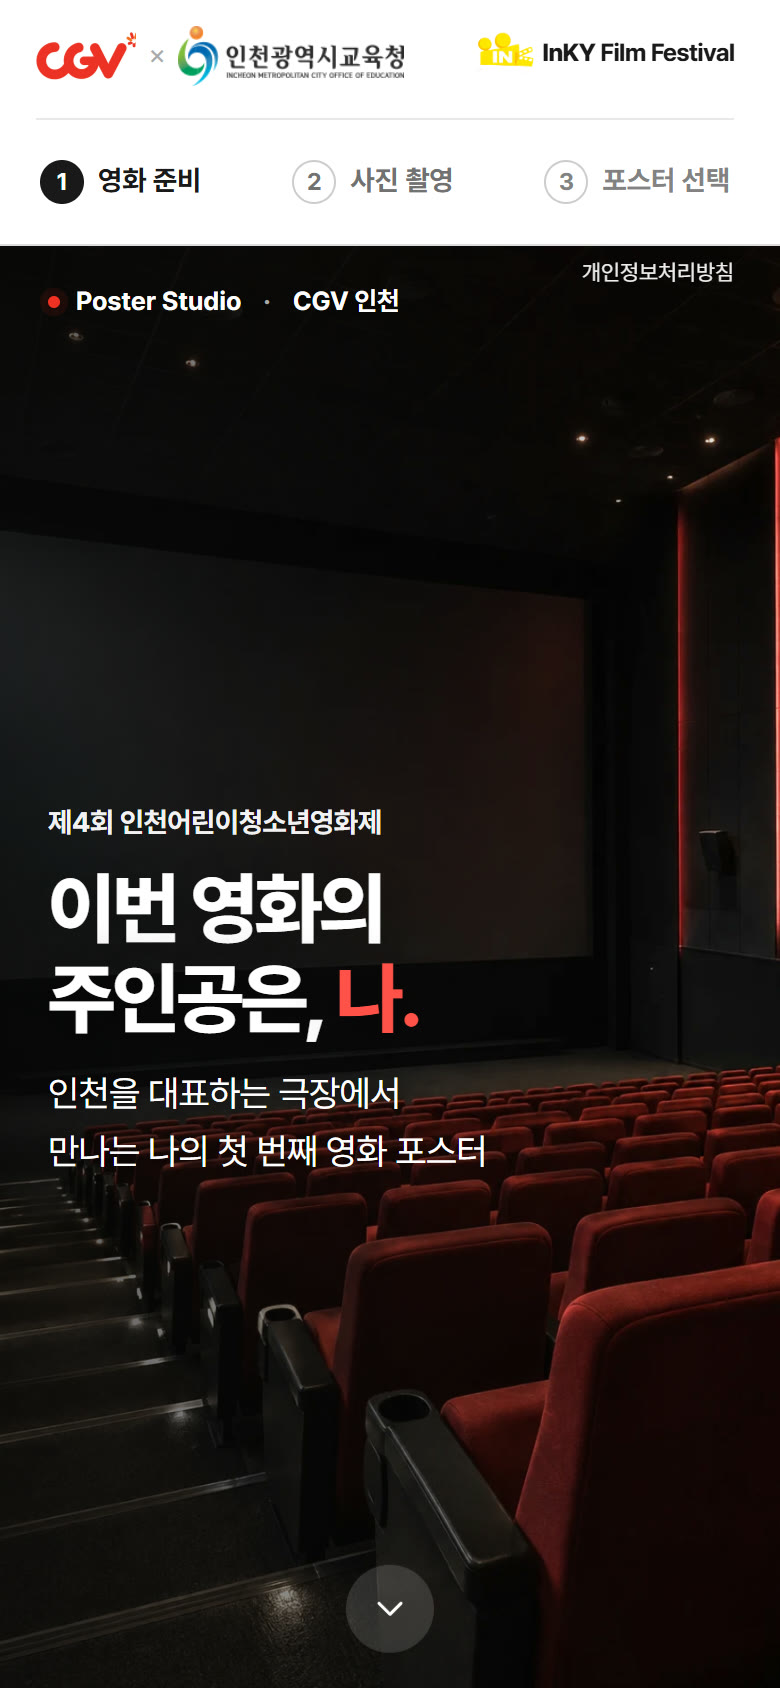
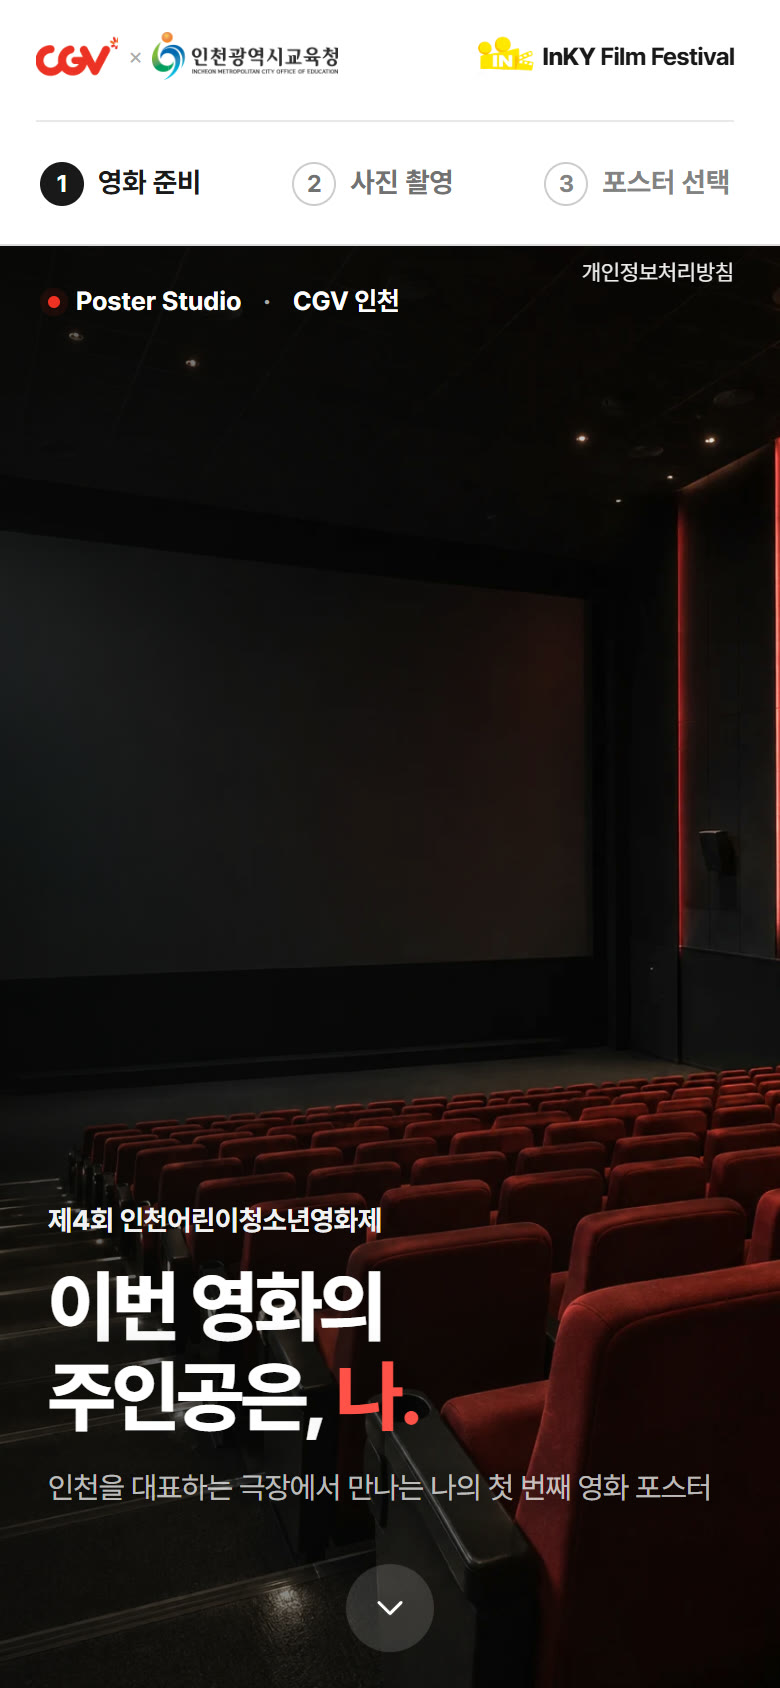
docs(manual): 설명서 그림 13장을 10/19 화면으로 다시 찍음 — 휴대폰 새 흐름 · 포스터 8종 새 디자인, 휴대폰 문장에 «양쪽 화살표» (지시 Bumm 10/18 P-b)
- PC 1 · 2단계 그림에 찍혀 있던 «AI 서버 연결을 확인할 수 없습니다» 알림이 빠졌다 — 예전에는 라이브 함수가 허용하지 않는 포트(5602)의
  개발 서버로 찍어 /health가 막혔다. 이번에는 허용된 8080 · 5500으로 찍었다.
- PDF: 운영자용 6쪽 · 선생님용 2쪽(.cache/manual-20261019/).

diff --git a/_docs/manual/operator.md b/_docs/manual/operator.md
@@ -1,6 +1,6 @@
 # Poster Studio 부스 운영 설명서 — 운영자용
 
-> 2026-10-17 출시 후보 화면 기준. [확정 대기] 표시는 화면·장비가 정해지면 채운다. 인쇄용 A4 PDF는 이 글에서 만든다.
+> 2026-10-19 화면 기준(휴대폰 새 흐름 · 포스터 8종 새 디자인). [확정 대기] 표시는 화면·장비가 정해지면 채운다. 인쇄용 A4 PDF는 이 글에서 만든다.
 
 제4회 인천어린이청소년영화제(2026.11.14. 토, 10:30~15:00, CGV 인천) «InKY 놀이터»의 Poster Studio 부스입니다.
 아이가 영화 제목을 정하고 사진을 찍으면, AI가 그 사진으로 영화 장면 그림을 그리고, 화면에서 포스터 8가지 중 하나를 골라 4×6 사진 용지로 인쇄해 가져갑니다.
@@ -98,7 +98,7 @@
 
 ## 6. 휴대폰으로 볼 때(물어보면)
 
-공개 주소(poster.edutogether.kr)를 휴대폰으로 열면 휴대폰에 맞춘 화면이 나옵니다. 첫 화면 사진을 누르면 영화 준비로 넘어가고, 촬영은 가운데 빨간 카메라 단추, 포스터는 옆으로 밀어 고른 뒤 인쇄 대신 «내 휴대폰에 저장»을 누릅니다. 행사 날 실제 촬영과 인쇄는 부스 노트북에서만 합니다.
+공개 주소(poster.edutogether.kr)를 휴대폰으로 열면 휴대폰에 맞춘 화면이 나옵니다. 첫 화면 사진을 누르면 영화 준비로 넘어가고, 촬영은 가운데 빨간 카메라 단추, 포스터는 옆으로 밀거나 양쪽 화살표로 넘겨 고른 뒤 인쇄 대신 «내 휴대폰에 저장»을 누릅니다. 행사 날 실제 촬영과 인쇄는 부스 노트북에서만 합니다.
 
 ## 7. 끝나고
 

diff --git a/_docs/manual/teacher.md b/_docs/manual/teacher.md
@@ -1,6 +1,6 @@
 # Poster Studio 안내 — 선생님용
 
-> 2026-10-17 출시 후보 화면 기준. 인쇄용 A4 PDF는 이 글에서 만든다.
+> 2026-10-19 화면 기준(휴대폰 새 흐름 · 포스터 8종 새 디자인). 인쇄용 A4 PDF는 이 글에서 만든다.
 
 ## 어떤 부스인가요
 
@@ -19,7 +19,7 @@
 
 ## 휴대폰으로 미리 보기
 
-poster.edutogether.kr을 휴대폰으로 열면 휴대폰에 맞춘 화면으로 흐름을 미리 볼 수 있습니다. 첫 화면 사진을 누르면 영화 준비로 넘어가고, 촬영 화면의 빨간 카메라 단추, 옆으로 밀어 고르는 포스터, «내 휴대폰에 저장»이 차례로 나옵니다. 행사 날 실제 촬영과 인쇄는 부스 노트북에서 합니다.
+poster.edutogether.kr을 휴대폰으로 열면 휴대폰에 맞춘 화면으로 흐름을 미리 볼 수 있습니다. 첫 화면 사진을 누르면 영화 준비로 넘어가고, 촬영 화면의 빨간 카메라 단추, 옆으로 밀거나 양쪽 화살표로 넘겨 고르는 포스터, «내 휴대폰에 저장»이 차례로 나옵니다. 행사 날 실제 촬영과 인쇄는 부스 노트북에서 합니다.
 
 ![휴대폰 화면 — 첫 화면 · 영화 준비 · 촬영 · 포스터 고르기](img/13-phone-flow.jpg)
 
